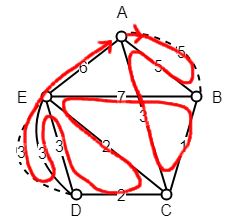
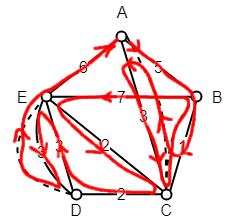
typos

Changed region(s): [[0.0295, 0.1091, 0.8565, 0.9818], [0.8861, 0.4091, 0.9451, 0.4636]]

diff --git a/cpp/cpp.md b/cpp/cpp.md
@@ -43,7 +43,7 @@ The total weight of the path is the sum of all the edges, because this is an Eul
 
 ![path](graph_path.png)
 
-The path is an Euler circuit, such as: ABACBECDEDEA.
+The path is an Euler circuit, such as: ABCACBECDEDEA.
 
 ## Notes
 
